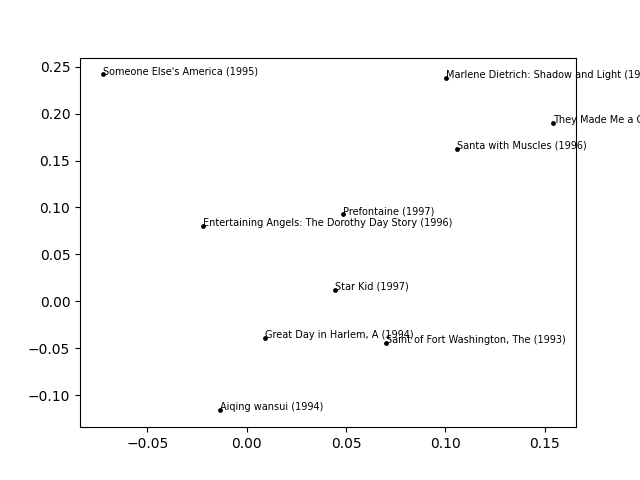
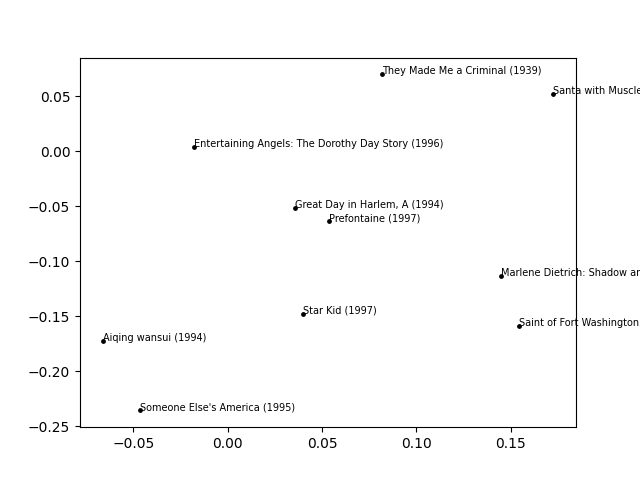
Add genre plots.

diff --git a/task4.py b/task4.py
@@ -1,8 +1,11 @@
-# # Apparently surprise only works on python 3.7 in a .py file :P
+# Apparently surprise only works on python<=3.7, and installing ipykernel on this version of python was taking forever
 import numpy as np
 import pandas as pd
 from surprise import Dataset, SVD, Reader
 import matplotlib.pyplot as plt
+
+# Load the movies csv, which is used in multiple places below. This is read-only!
+MOVIES = pd.read_csv('movies.csv')
 
 # Define a reader for Surprise
 reader = Reader(rating_scale=(1, 5))
@@ -10,32 +13,32 @@ reader = Reader(rating_scale=(1, 5))
 # Read the csv files
 train_df = pd.read_csv('train.csv')
 test_df = pd.read_csv('test.csv')
-movies = pd.read_csv('movies.csv')
 train_df = train_df[['User ID', 'Movie ID', 'Rating']]
 print(train_df.describe())
 # create a training set
 train_set = Dataset.load_from_df(train_df, reader).build_full_trainset()
 
 # Initialize and train SVD algorithm
-algo = SVD(reg_all=0)
+algo = SVD()
 algo.fit(train_set)
 
-# validate the model
-preds = []
+# Validate the model using mean error - sanity check
+errors = []
 print(test_df)
 for _, (uid, iid, rating) in test_df.iterrows():
-    preds.append(algo.predict(uid, iid).est - rating)
-print(f"error: {sum(preds) / len(test_df.index)}")
+    errors.append(algo.predict(uid, iid).est - rating)
+print(f"error: {sum(errors) / len(test_df.index)}")
 
-# check results
+# Check factorization results
 U = algo.pu
 print(f"U shape: {U.shape}")
 V = algo.qi
 print(f"V shape: {V.shape}")
 
-# make sure that V's columns match the movies in movies.csv
+# Make sure that V's columns match the movies in movies.csv
+# Since some movies were not in train_df
 zero_cnt = 0
-for iid in movies['Movie ID']:
+for iid in MOVIES['Movie ID']:
     # for some reason unique has to be added here...
     if iid not in train_df['Movie ID'].unique():
         V = np.insert(V, iid, values=0, axis=0)
@@ -49,22 +52,17 @@ A, S, B = np.linalg.svd(V)
 A_thin = A.T[0:2]
 print(f"A thin shape: {A_thin.shape}")
 print((A_thin @ V).shape)     # check that the dimensions is correct
-# project V onto the two most important dimensions
-V_tilde = (A_thin @ V)              
+V_tilde = (A_thin @ V)        # project V onto the two most important dimensions
 
-def get_name_from_iid(iid: int):
-    return movies['Movie Title'][iid-1]
-
+# props to task 1 and 2!
 popular_iid = [50, 258, 100, 181, 294, 286, 288, 1, 300, 121]
 best_iid = [814, 1599, 1201, 1122, 1653, 1293, 1500, 1189, 1536, 1467]
-random_iid = [i for i in range(1, 11)]
-
 
 def produce_plot(iids: list, name: str):
     for iid in iids:
         x = V_tilde[0][iid - 1]
         y = V_tilde[1][iid - 1]
-        plt.text(x, y, f"{movies['Movie Title'][iid-1]}", fontsize=7)
+        plt.text(x, y, f"{MOVIES['Movie Title'][iid-1]}", fontsize=7)
         plt.scatter(x, y, c="black", s=6)
 
     plt.autoscale(enable=True)
@@ -73,9 +71,21 @@ def produce_plot(iids: list, name: str):
 
 produce_plot(popular_iid, 'popular')
 produce_plot(best_iid, 'best')
+
+# just chose the first ten movies
+random_iid = [i for i in range(1, 11)]
 produce_plot(random_iid, 'random')
 
+def first_movies_of_genre(genre: str, lim: int = 10):
+    iids = []
+    for _, row in MOVIES.iterrows():
+        if row[genre] == 1:
+            iids.append(row['Movie ID'])
+        if len(iids) >= lim:
+            return iids
+    return iids
+
 # three genres: comedy, action, and documentary
-action_iid = []
-comedy_iid = []
-documentary_iid = []
+genres = ['Action', 'Comedy', 'Documentary']
+for genre in genres:
+    produce_plot(first_movies_of_genre(genre), genre.lower())
